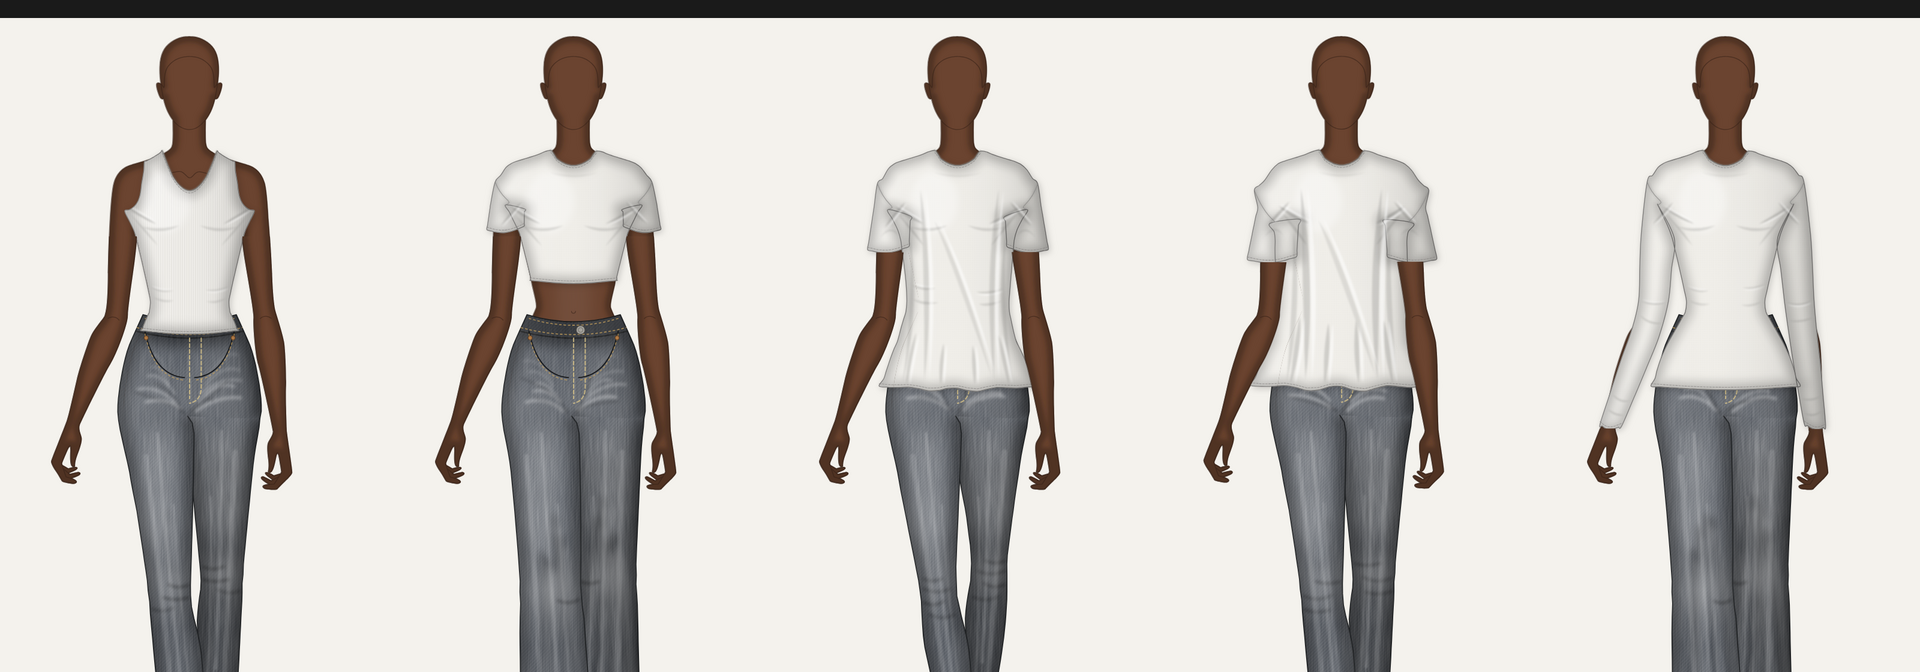
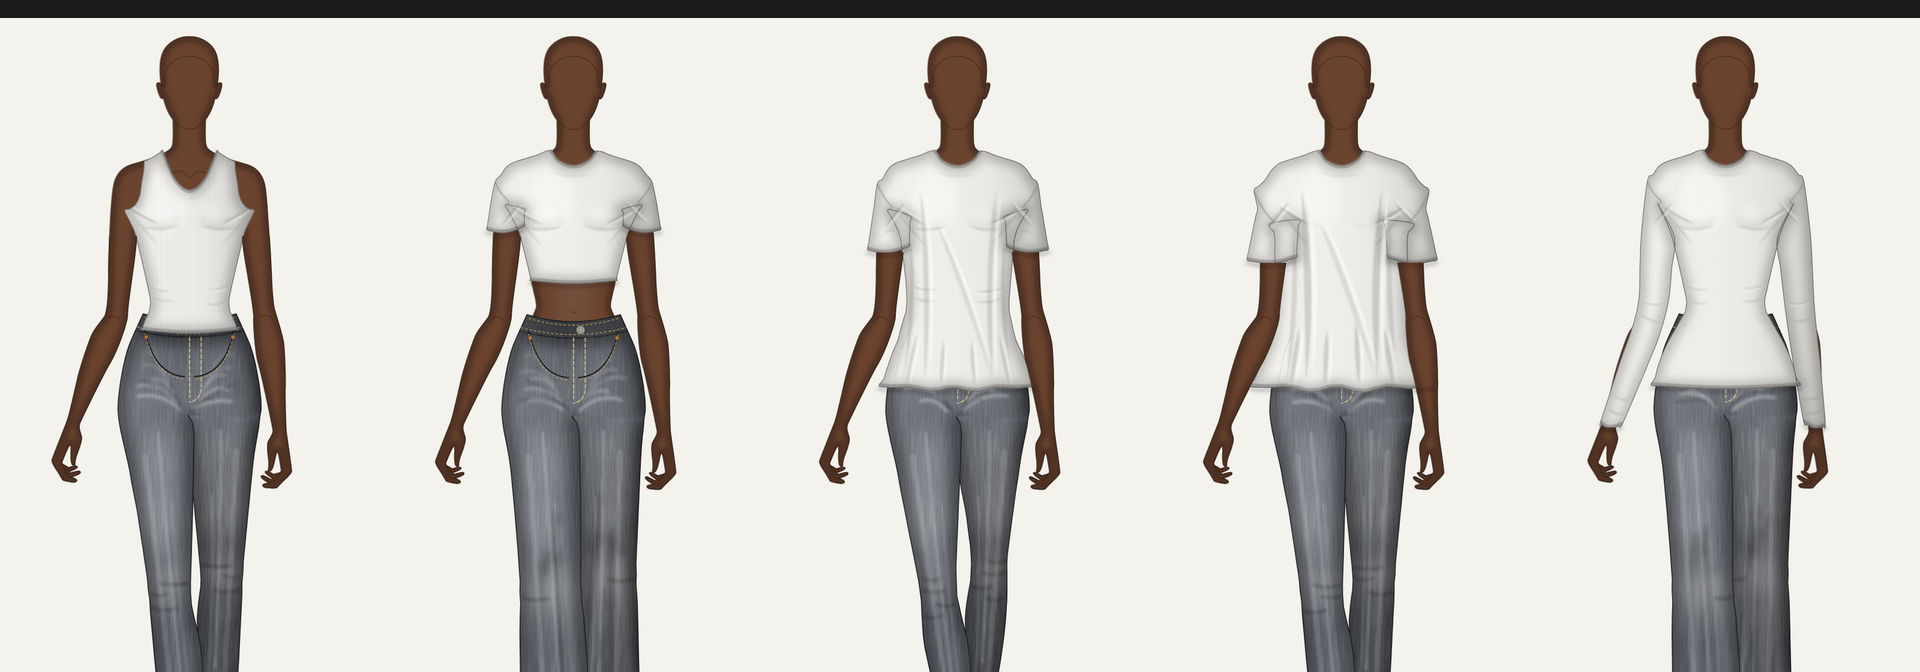
Tops read as worn, not stuck on
Removed the offset drop shadow that made tops look like stickers. Added
body volume under the fabric at the bust, turned-under shading inside hems
and the neckline, and soft cast shadows from sleeves and hems onto the
arms, body and jeans.

Claude-Session: https://claude.ai/code/session_01N4gmdzgjq2mCxibreUu9UH

diff --git a/src/components/TopView.tsx b/src/components/TopView.tsx
@@ -115,7 +115,6 @@ export const TopView = memo(function TopView({ g, t, rendered, shading, selected
           <stop offset={1} stopColor="#000" stopOpacity={dark ? 0.28 : 0.16} />
         </linearGradient>
       </defs>
-      {rendered && <path d={body} fill="#000" opacity={0.2} filter={`url(#tb-${uid})`} transform="translate(1.5 2)" pointerEvents="none" />}
       <g mask={holes.length ? `url(#tm-${uid})` : undefined}>
         <path d={body} fill={fill} stroke={outline} strokeWidth={rendered ? 0.9 : 1.5} strokeLinejoin="round" data-kind="garment" data-gid={g.id} />
         {rendered && shading && (
@@ -125,6 +124,25 @@ export const TopView = memo(function TopView({ g, t, rendered, shading, selected
             {/* round shading: darker toward the sides so the torso reads as a body */}
             <path d={body} fill="none" stroke="#000" strokeWidth={22} opacity={dark ? 0.22 : 0.1} filter={`url(#tb-${uid})`} style={{ mixBlendMode: 'multiply' }} />
             <ellipse cx={F(-0.35, 0.3).x} cy={F(-0.35, 0.3).y} rx={26} ry={34} fill="#fff" opacity={dark ? 0.08 : 0.35} filter={`url(#tb-${uid})`} />
+            {/* the body underneath: bust volume pushes the fabric out, lit on top and shaded underneath */}
+            {bust &&
+              [-1, 1].map((sx) => {
+                const c = F(sx * 0.46, 0.4);
+                const k = 1 - stiff * 0.7;
+                return (
+                  <g key={sx} opacity={k} filter={`url(#tb-${uid})`}>
+                    <path d={`M${f1(c.x - 17)},${f1(c.y + 2)} Q${f1(c.x)},${f1(c.y + 15)} ${f1(c.x + 17)},${f1(c.y + 1)}`} fill="none" stroke="#000" strokeWidth={5} opacity={dark ? 0.3 : 0.12} />
+                    <ellipse cx={c.x - sx * 3} cy={c.y - 5} rx={9} ry={7} fill="#fff" opacity={dark ? 0.08 : 0.22} />
+                  </g>
+                );
+              })}
+            {/* the edges turn under: a soft dark line just inside every hem and the neckline */}
+            <g fill="none" stroke="#000" strokeLinecap="round" filter={`url(#tf-${uid})`} opacity={dark ? 0.4 : 0.22}>
+              {shape.hems.map((h, i) => (
+                <path key={i} d={line(h)} strokeWidth={3} transform="translate(0 -1.5)" />
+              ))}
+              <path d={line(shape.neckline)} strokeWidth={2.5} transform="translate(0 1.5)" />
+            </g>
             {folds.map((fd, i) => {
               const c = sample(fd.pts.map((p) => topForward(t, p, stiff)));
               return (

diff --git a/src/components/Canvas.tsx b/src/components/Canvas.tsx
@@ -473,6 +473,9 @@ export function Canvas() {
         {tab === 'sketch' && doc.garments.some((g) => g.visible) && (
           <>
             <defs>
+              <filter id="cast-blur" x="-20%" y="-50%" width="140%" height="200%">
+                <feGaussianBlur stdDeviation={2} />
+              </filter>
               <clipPath id="arms-front">
                 {armFront.map((d, i) => (
                   <path key={i} d={d} />
@@ -480,6 +483,19 @@ export function Canvas() {
               </clipPath>
             </defs>
             <use href="#croquis-art" clipPath="url(#arms-front)" pointerEvents="none" />
+            {/* garments cast soft shadows on what is underneath: the arm below each sleeve, the body or jeans below the hem */}
+            {rendered && (
+              <g pointerEvents="none" fill="none" stroke="#000" strokeLinecap="round" filter="url(#cast-blur)">
+                {doc.garments
+                  .filter((g) => g.visible && g.type === 'top')
+                  .map((g) => {
+                    const sh = topShape(torso, g.points, stiffOf(g.top));
+                    return sh.hems.map((h, i) => (
+                      <path key={`${g.id}${i}`} d={'M' + h.map((p) => `${p.x.toFixed(1)},${(p.y + 3).toFixed(1)}`).join(' L')} strokeWidth={4} opacity={0.22} />
+                    ));
+                  })}
+              </g>
+            )}
           </>
         )}
         {doc.notes.map((n) => {
